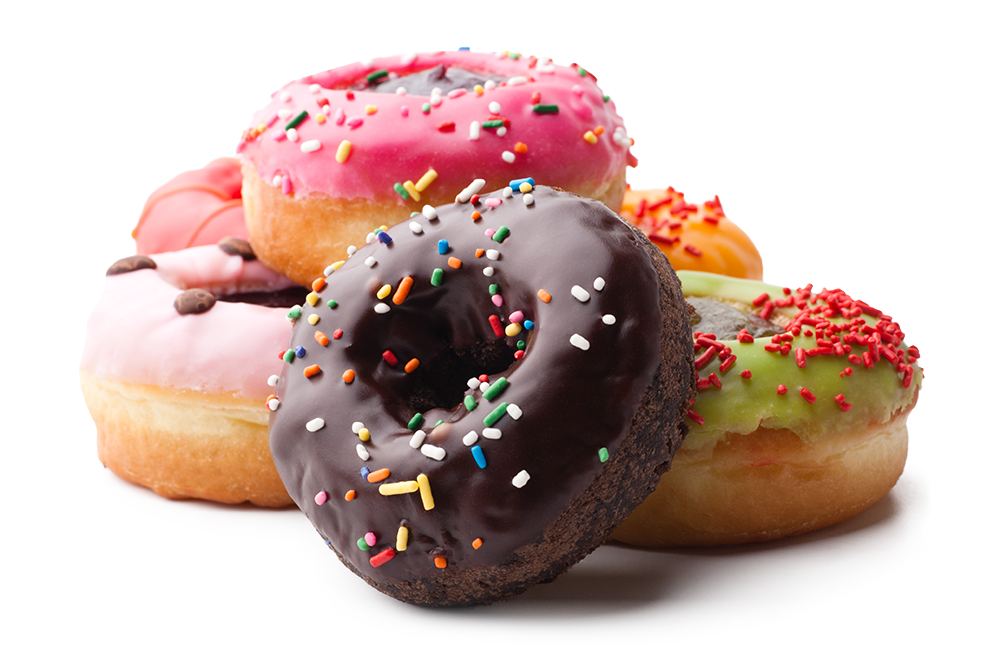
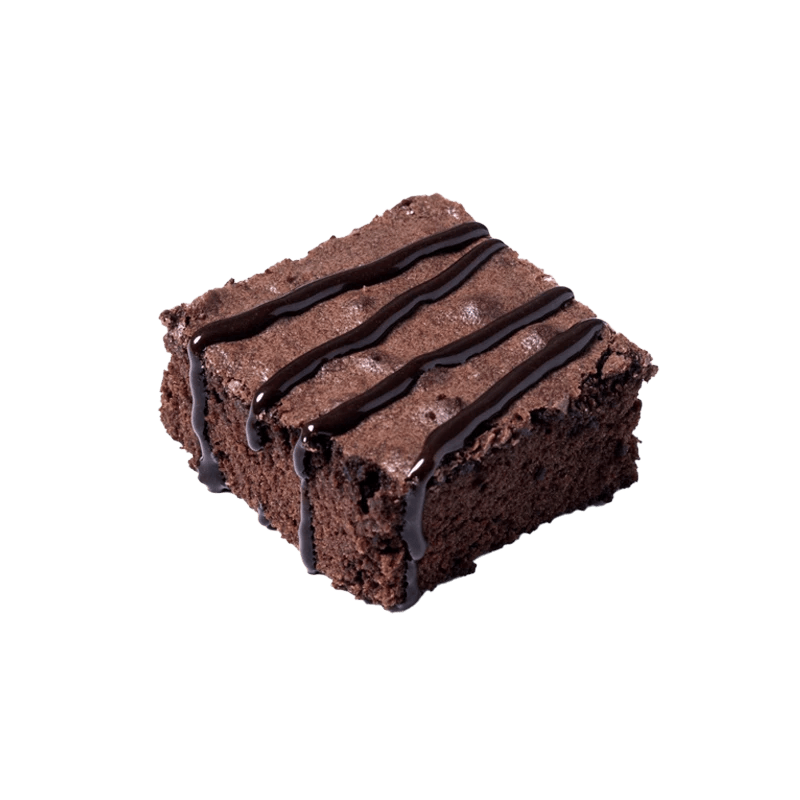
actualizacion readme

diff --git a/menu.html b/menu.html
@@ -321,7 +321,7 @@
                 </div>
                 <div class="detail-box">
                   <h5>
-                    Donas Glaseadas
+                    Brownie
                   </h5>
                   <p>
                     Agregar Descripción

diff --git a/README.md b/README.md
@@ -4,7 +4,7 @@
 ---
 ## 📋 Tabla de contenidos
 -[Descripcion-del-proyecto](#-descripcion-del-proyecto)
--[Integrantes](#-integrantes)
+-[Integrantes](#-ilsntegrantes)
 -[Tecnologias](#-tecnologias)
 -[Avances-Semanales](#-avances-semanales)
 -[instalacion](#-instalacion)
@@ -52,20 +52,54 @@ Nuestro propósito como equipo es implementar una plataforma en la que se pueda 
 |semana 6 |creacion carta Gantt          |[VER](https://github.com/BzTTY/webpage.github.io/tree/main/Avances/SEMANA%206)    |
 |semana 7 |creacion de la pagina         |[VER](https://github.com/BzTTY/webpage.github.io/tree/main/Avances/SEMANA%207/DulceMae)|
 |semana 8 |prototipo funcional de la pagina|[VER](https://github.com/BzTTY/webpage.github.io/tree/main/Avances/SEMANA%208)  |
+|semana 9 |presentacion del proyecto     |                                                                                  |
+|semana 10|...                           |                                                                                  |
 ---
 
 ## ⬇ Instalacion.
 
-1. Clonar el repositorio
-``` bash
-git clone git clone https://github.com/BzTTY/webpage.github.io
+✅ Requisitos Previos
+Antes de comenzar, asegúrate de tener instalado:
+
+- Git
+
+- Python (necesario el repositorio es un proyecto de Python)
+
+- pip (el gestor de paquetes de Python)
+
+- visual studio code
+
+
+🔧 Paso a Paso para clonar e instalar
+
+- Abrir GitHub Bash
+- pegar el codigo de sale a continuacion 
+
+ ``` bash
+git clone git clone https://github.com/BzTTY/dulcemae.git
 ...
 ```
+Esto descargará el proyecto en una carpeta llamada dulcemae.
+ 
+ Arrastrar la capeta dentro de Visual Studio Code
+
+ dar doble click sobre archivo index para visualizar 
+
+---
+
+
+
+
+
 ## 🔗🍰 link de la pagina.
 [VER](https://bztty.github.io/webpage.github.io/index.html)
 
+---
+
 ## 🔗📋 link tareas asana.
 [VER](https://app.asana.com/1/1199948236653219/project/1210127285034543/gantt/1210127552780610)
+
+---
 
 
 ## 🪪 Licencia
